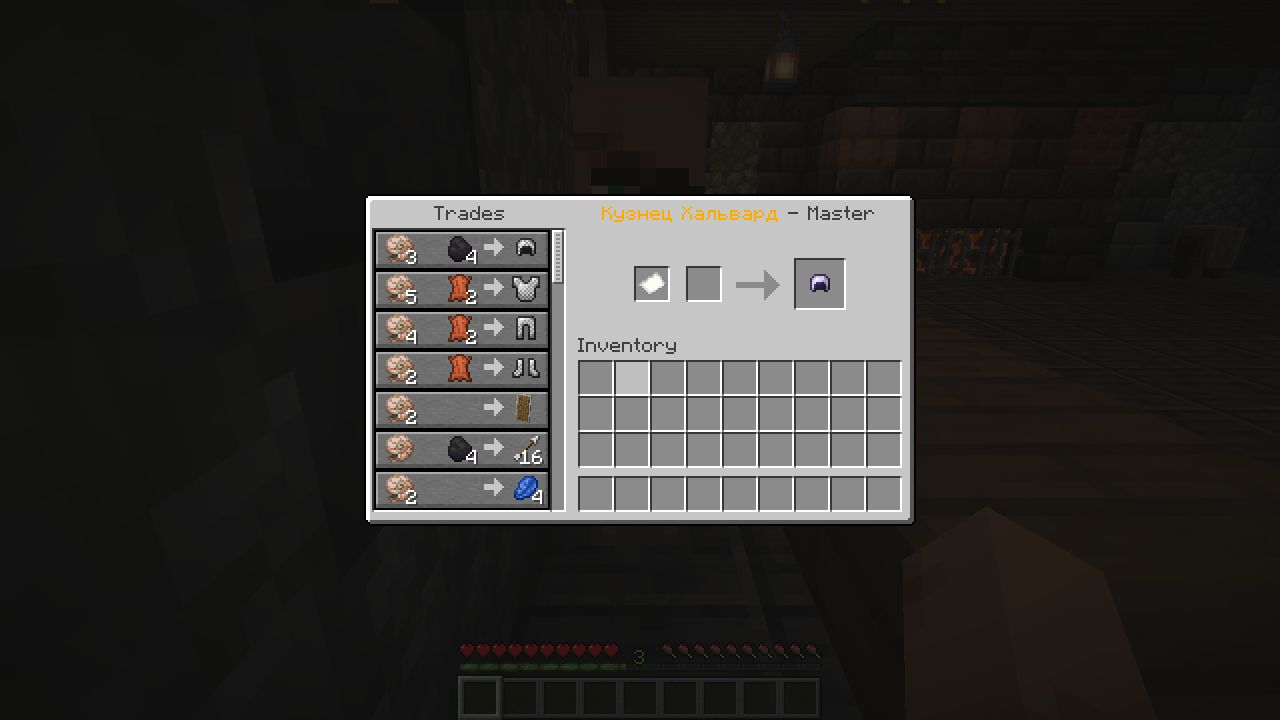
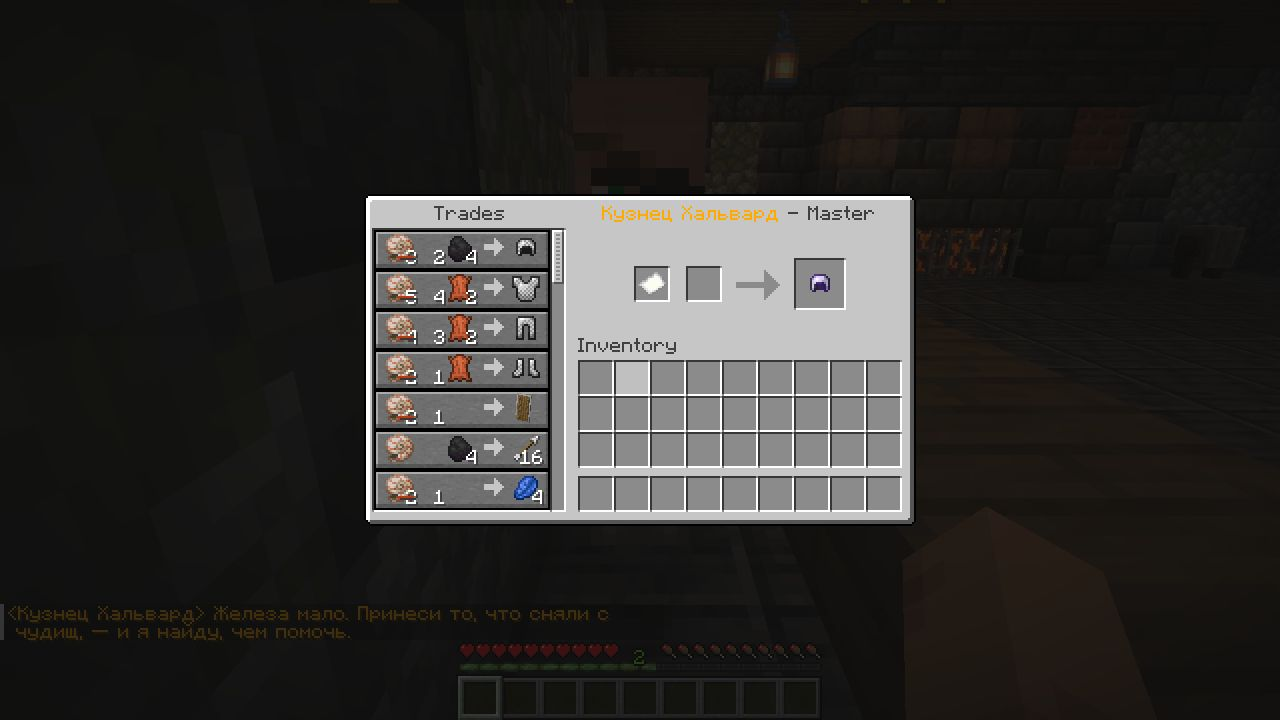
T-033: отчёт, кадры, перезапуск клиентов перед zones/smith

diff --git a/tools/test_mines.py b/tools/test_mines.py
@@ -470,7 +470,7 @@ def t_smith():
 
 # ---------------------------------------------------------------- zones
 def t_zones():
-    print("[zones]"); stage(); base()
+    print("[zones]"); tm.fresh(); stage(); base()
     R("give Cam minecraft:iron_axe"); R("effect give Cam minecraft:haste 60 3 true")
     x1, z1, x2, z2 = M["headframe"]
     tpp("Cam", x1 - 0.5 + 1.2, Y + 1, z2 + 1.5); time.sleep(1.5)

diff --git a/docs/reports/T-033-report.md b/docs/reports/T-033-report.md
@@ -43,9 +43,9 @@
 ## 2. Как проверено
 
 - Шаг: `mines_check.py` (руда по типам/горизонтам — ровно; вне выработки и места 0; грань в воздух у каждой; блочные сущности; BFS без прыжков туда и обратно: тракт → двор; двор → штольня → H1 → H2 → H3 → вода → фронт большого обвала **при всех трёх обвалах «после»**; обход каждого обвала; ствол) — OK; `r1_check.py places mines` — 0 изменений вокруг места.
-- `python3 tools/test_mines.py` (Cam, Cam2): РЕЗУЛЬТАТЫ_ТЕСТОВ
-- Бот (`mines_walk.sh`, без прыжков, мирная, `--clear`): РЕЗУЛЬТАТЫ_БОТА
-- Замер `perf` (2 игрока на H3, все мертвецы проснулись, 6 зомби): `mines/*` ЗАМЕР мс на тик.
+- `python3 tools/test_mines.py` (Cam, Cam2; 15 групп, 61 проверка, ~60 мин): финальный полный прогон на итоговом мире — **59 ok, 2 failed**: обе — покупка у кузнеца, клиент Cam после часа непрерывного ввода перестаёт торговать (и после окна торговли — ломать блоки). Это поведение тестового клиента, не механики: `zones` + `smith` на свежих клиентах — 6/6 (настоящая покупка, подделка не принята, вторая покупка недоступна), `smith` отдельно — 4/4, `dead zones smith` — 13/13. Тест теперь перезапускает клиентов (Cam, потом Cam2) перед `zones` и `smith`. Остальное проходит: сборка; руда (по одной каждого типа добыта Cam киркой — ванильная добыча); обвалы (Cam вошёл шагом → через 2 с обвал, вытолкнут к концу зоны, урон 2,2 из ≤ 4; с 3 сердцами — выше 1 сердца, замедление; ломание блока в 6 от зоны крадучись → обвал; моб без игроков — сенсор сработал, обвала нет; второй раз не падает); крадучись через зону — обвала нет; обходы; подъём по стволу клиентом 35 с; мертвецы (двое просыпаются одновременно, удар будит, возврат, убитый не вернулся через 10 мин игрового времени и вернулся через 20 без игроков в 48, каска у ванильного зомби и не у элитки); лимит (14 → 10); вагонетки (возврат, дубль убран, скатилась со штольни на H1 и вернулась); Бран (стук: 4 за 12 с у фронта завала с 12,9 блока; лаз разобран → проснулся; смерть от Cam: кирка, письмо, трофей, `bran` 2, не вернулся); мирная (мертвецов и Брана нет, кирка и письмо в кармане с `Age -32768`; лёгкая — мертвецы снова на точках); зоны (копёр — приключение, двор и штрек ломаются); перезапуск (обвал 1 лежит, остальные стоят, 5 мертвецов, 1 Бран, 4 вагонетки, 5 предметов реквизита, без дублей).
+- Бот (`mines_walk.sh`, без прыжков, мирная, `--clear`): все 7 маршрутов без проблем — `n_in` (тракт → двор → штольня → H1 → I12 → H2 → I23 → H3 → вода по колено → фронт большого обвала) и `n_in_b` (обратно; в последнем прогоне со второй попытки: один раз застрял на H2 у сбойки K1), `n_bypass1..3` (обходы при обвалах «после»), `n_approach`/`_b` (тракт T-022 вдоль места не сломан).
+- Замер `perf` (2 игрока на H3, все мертвецы проснулись, 6 зомби): `mines/*` 0,09…0,28 мс на тик (в разных прогонах; облако, 2 клиента).
 - Кадры — `docs/reports/T-033/*.jpg` (двор днём и ночью, контора с обедом, журнал, устье штольни, H1, H2 с железом, обвал до/пыль/после, вода с капелью, большой обвал с киркой и лазом, карман с лазуритом, Бран, мертвец, окно кузнеца), план — `docs/reports/T-033/mines_plan.png`.
 
 ## 3. Что отличается от задачи и почему
@@ -56,7 +56,8 @@
 4. **Обед: «кружка» — `flower_pot`** (кружки в ванили нет).
 5. **Выработка нарисована для найденного двора** (план в плане — наш, глубины — из задачи); если поиск двора даст другое место (другой сид или рельеф), шаг остановится с просьбой перерисовать.
 6. **Подъём по стволу проверен клиентом Cam**, не ботом (бот лестницы не умеет — как разрешает задача): 35 с от H3 до двора.
-7. Маршрут бота `n_in` идёт сквозь зоны обвалов с выключенными по счёту обвалами (блоки — как в мире); обходы — отдельными маршрутами при обвалах «после».
+7. **Кровля над водой на 1 выше**, сталактиты висят на этой высоте: игрок в воде по колено всплывает на ~0,5 и цеплял головой сталактит на обычной высоте (бот застревал).
+8. Маршрут бота `n_in` идёт сквозь зоны обвалов с выключенными по счёту обвалами (блоки — как в мире); обходы — отдельными маршрутами при обвалах «после».
 
 ## 4. Что может проверить только живой игрок
 
